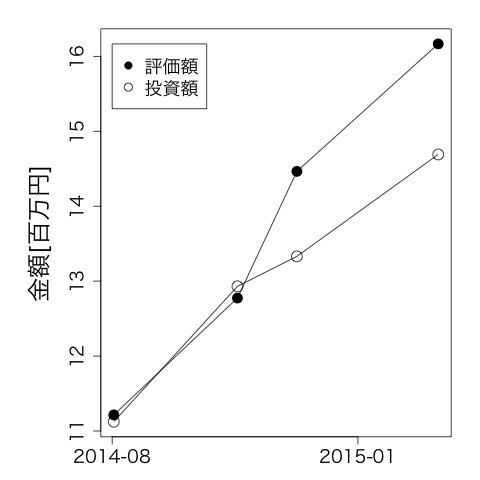
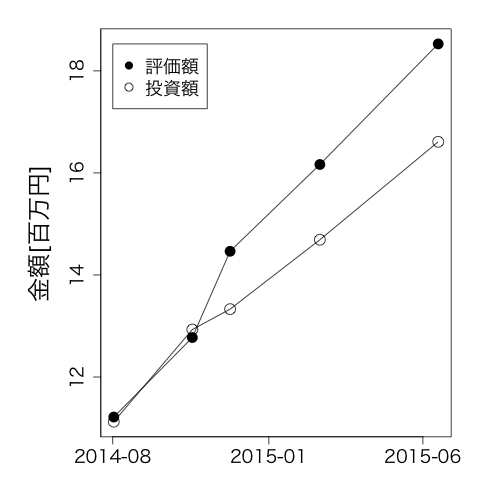
in June 2015

diff --git a/investment_return.md b/investment_return.md
@@ -16,3 +16,4 @@ permalink: /investment_return/
 10/18/2014|12,930,184|12,773,988|-156,196|-1.21%
 11/24/2014|13,330,155|14,464,376|1,134,221|8.51%
 2/20/2015|14,690,248|16,165,463|1,475,216|10.04%
+6/16/2015|16,610,136|18,528,774|1,918,637|11.55%
